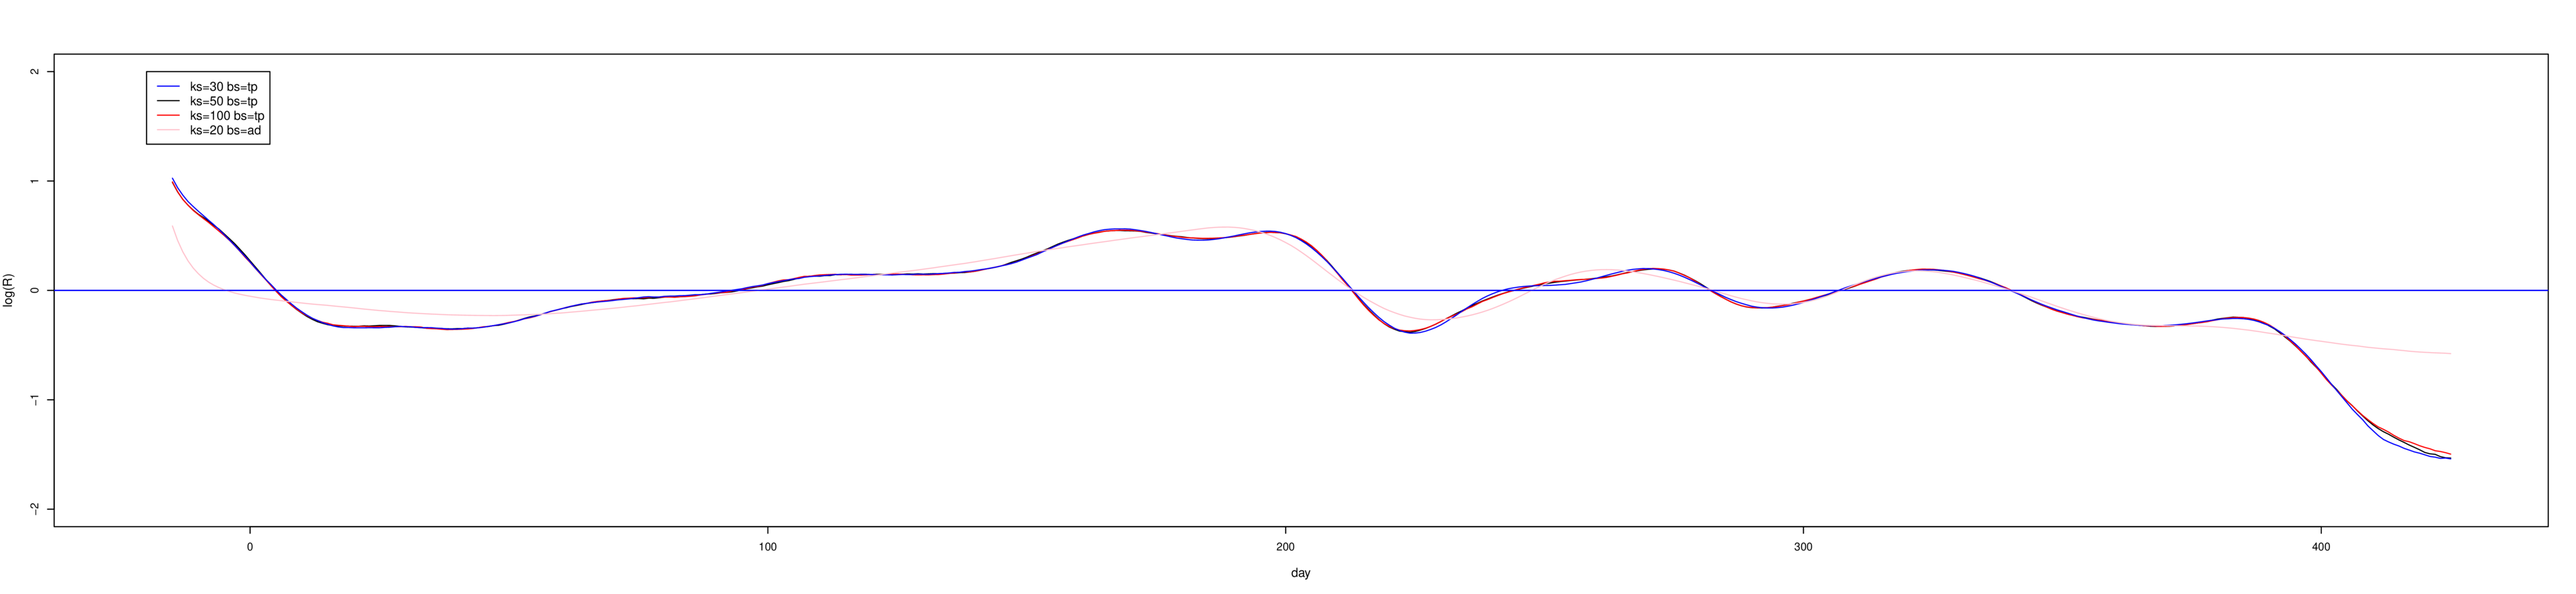
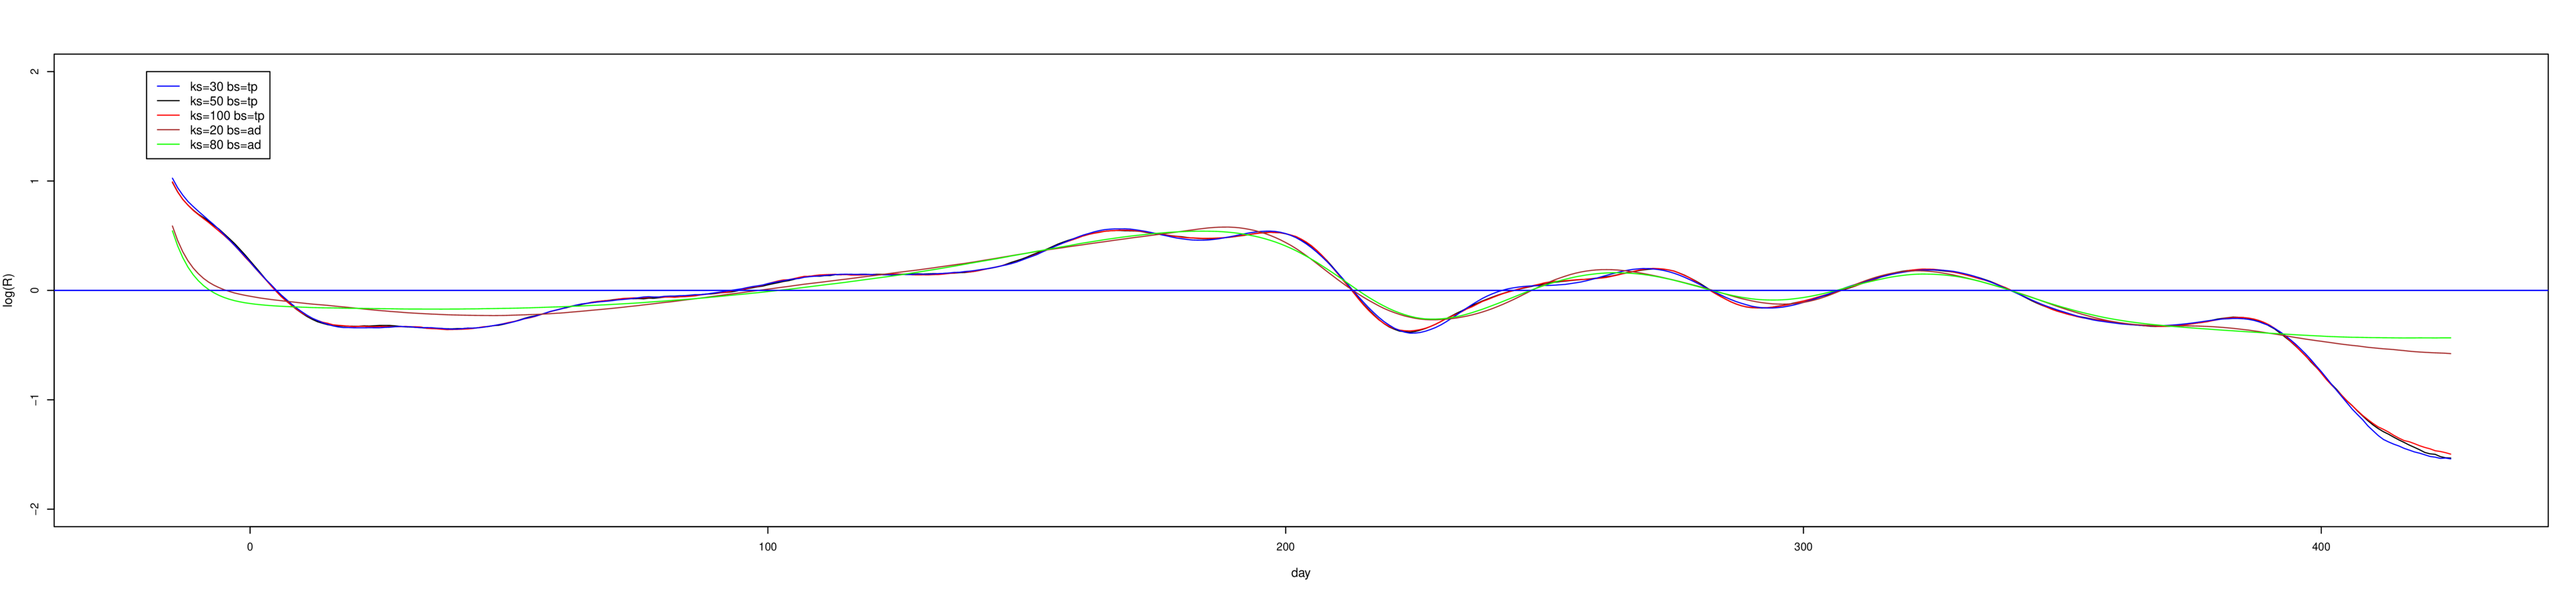
25.5.2021

diff --git a/wood/README.md b/wood/README.md
@@ -125,9 +125,12 @@ increasing number of knots above aforementioned values didn't change the results
 <img src="./cz_deaths12conv.png" width="1024"/><br>
 <img src="./cz_Rt12conv.png" width="1024"/><br>
 
+### 1.3.2020 - 1.5.2021 ks=80 bs="ad"
+<img src="./cz_deaths12c.png" width="1024"/><br>
+
 ---
 
-## Sensitivity analysis concerning change in i2o and o2d DFs (also AGE & NUTS shapes of DFs)
+## Sensitivity analysis concerning change in i2o and o2d DFs (also AGE & NUTS & WAVE no. DFs' shapes dependency)
 **TODO**
 
 ## IFR change over time (February change in CFR, NUTS dependency)
